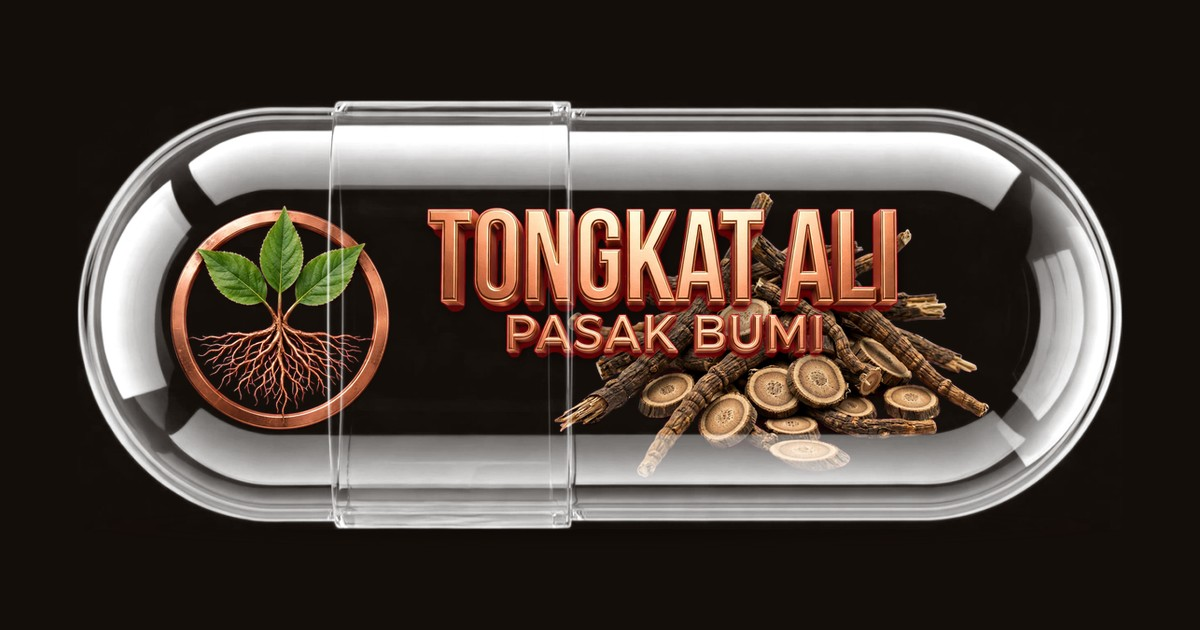
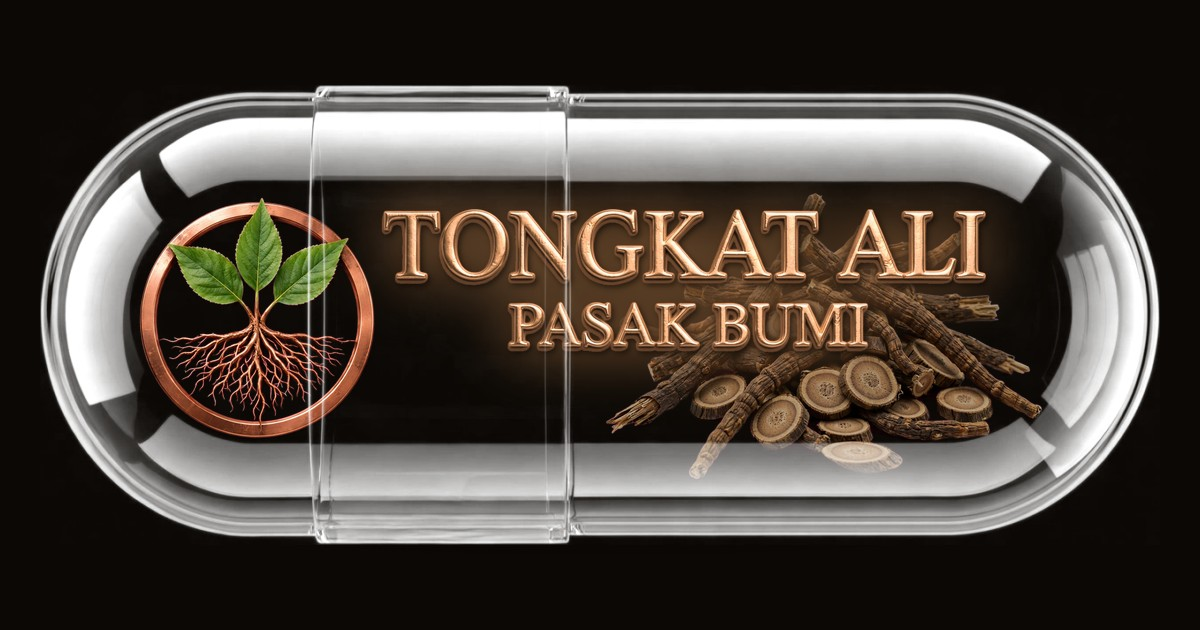
Tongkat Ali capsule: variant C, darker roots

diff --git a/tongkat-ali.html b/tongkat-ali.html
@@ -31,7 +31,7 @@
 <link rel="preconnect" href="https://fonts.gstatic.com" crossorigin>
 <link href="https://fonts.googleapis.com/css2?family=Cinzel:wght@400;500;600&family=Cormorant+Garamond:ital,wght@0,400;0,500;0,600;1,400&display=swap" rel="stylesheet">
 <link rel="stylesheet" href="/sheet.css?v=9">
-<link rel="preload" as="image" href="/tongkat-ali-hero.webp?v=13" type="image/webp">
+<link rel="preload" as="image" href="/tongkat-ali-hero.webp?v=14" type="image/webp">
 <script>document.documentElement.className="js"</script>
 </head>
 <body>
@@ -40,7 +40,7 @@
 <a class="tb-back" href="/#products">&larr; All products</a></header>
 <main>
 <section class="hero2">
-<figure class="himg"><img src="/tongkat-ali-hero.webp?v=13" width="1200" height="540" alt="Root Source Tongkat Ali (Pasak Bumi): sliced and whole roots inside a glass capsule on dark volcanic rock" fetchpriority="high"></figure>
+<figure class="himg"><img src="/tongkat-ali-hero.webp?v=14" width="1200" height="540" alt="Root Source Tongkat Ali (Pasak Bumi): sliced and whole roots inside a glass capsule on dark volcanic rock" fetchpriority="high"></figure>
 <div class="tblock">
 <p class="eyebrow">Fact sheet</p>
 <h1>Tongkat Ali</h1>
